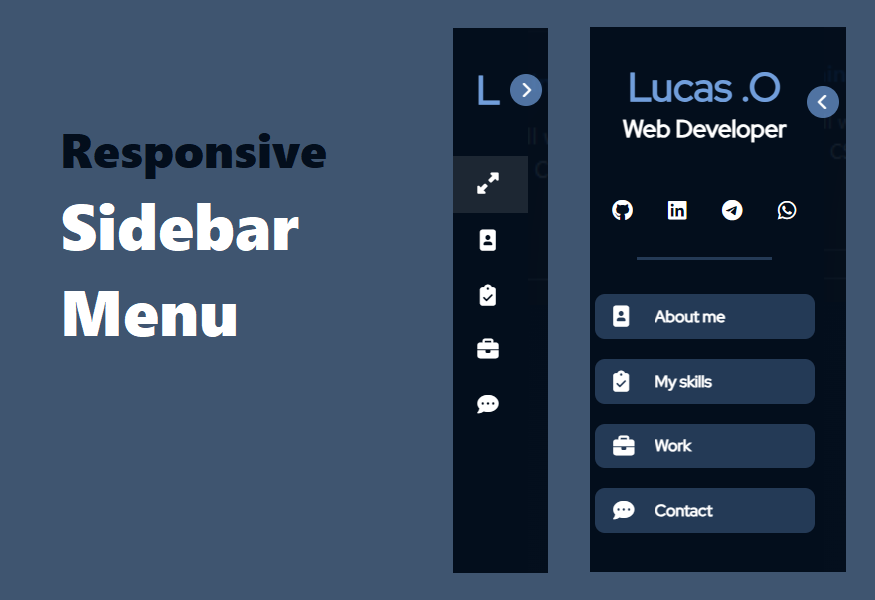
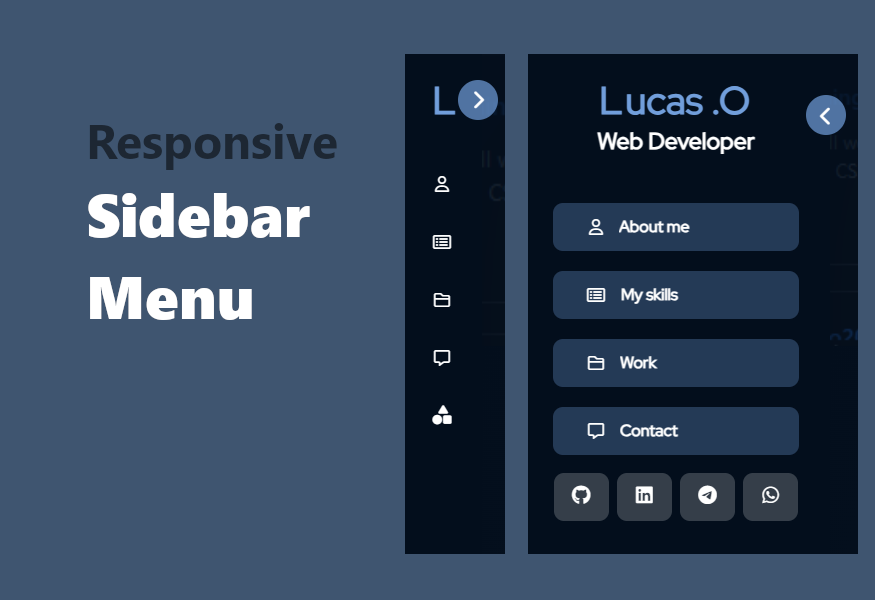
Melhorias (index.js), alteração de imagens (README.md)

diff --git a/libs/js/index.js b/libs/js/index.js
@@ -149,7 +149,6 @@ sendEmail.on('click', function (){
             if (validator.isEmail(email)) {
                 parentMessage.find('.message-email-inputs').remove()
                 parentMessage.find('.message-email-validation').remove()
-                console.log('Email enviado! (Teste)')
 
                 formEmail.submit()
             } else {
@@ -195,7 +194,6 @@ screen_scroll.on('scroll', function (){
                     
                     menu.find('.li-links').each(function (){
                         let item = $(this)
-                        console.log(item)
                         switch (index) {
                             case 1:
                                 if (item.hasClass('li1')){ item.addClass('li-links-selected') }
